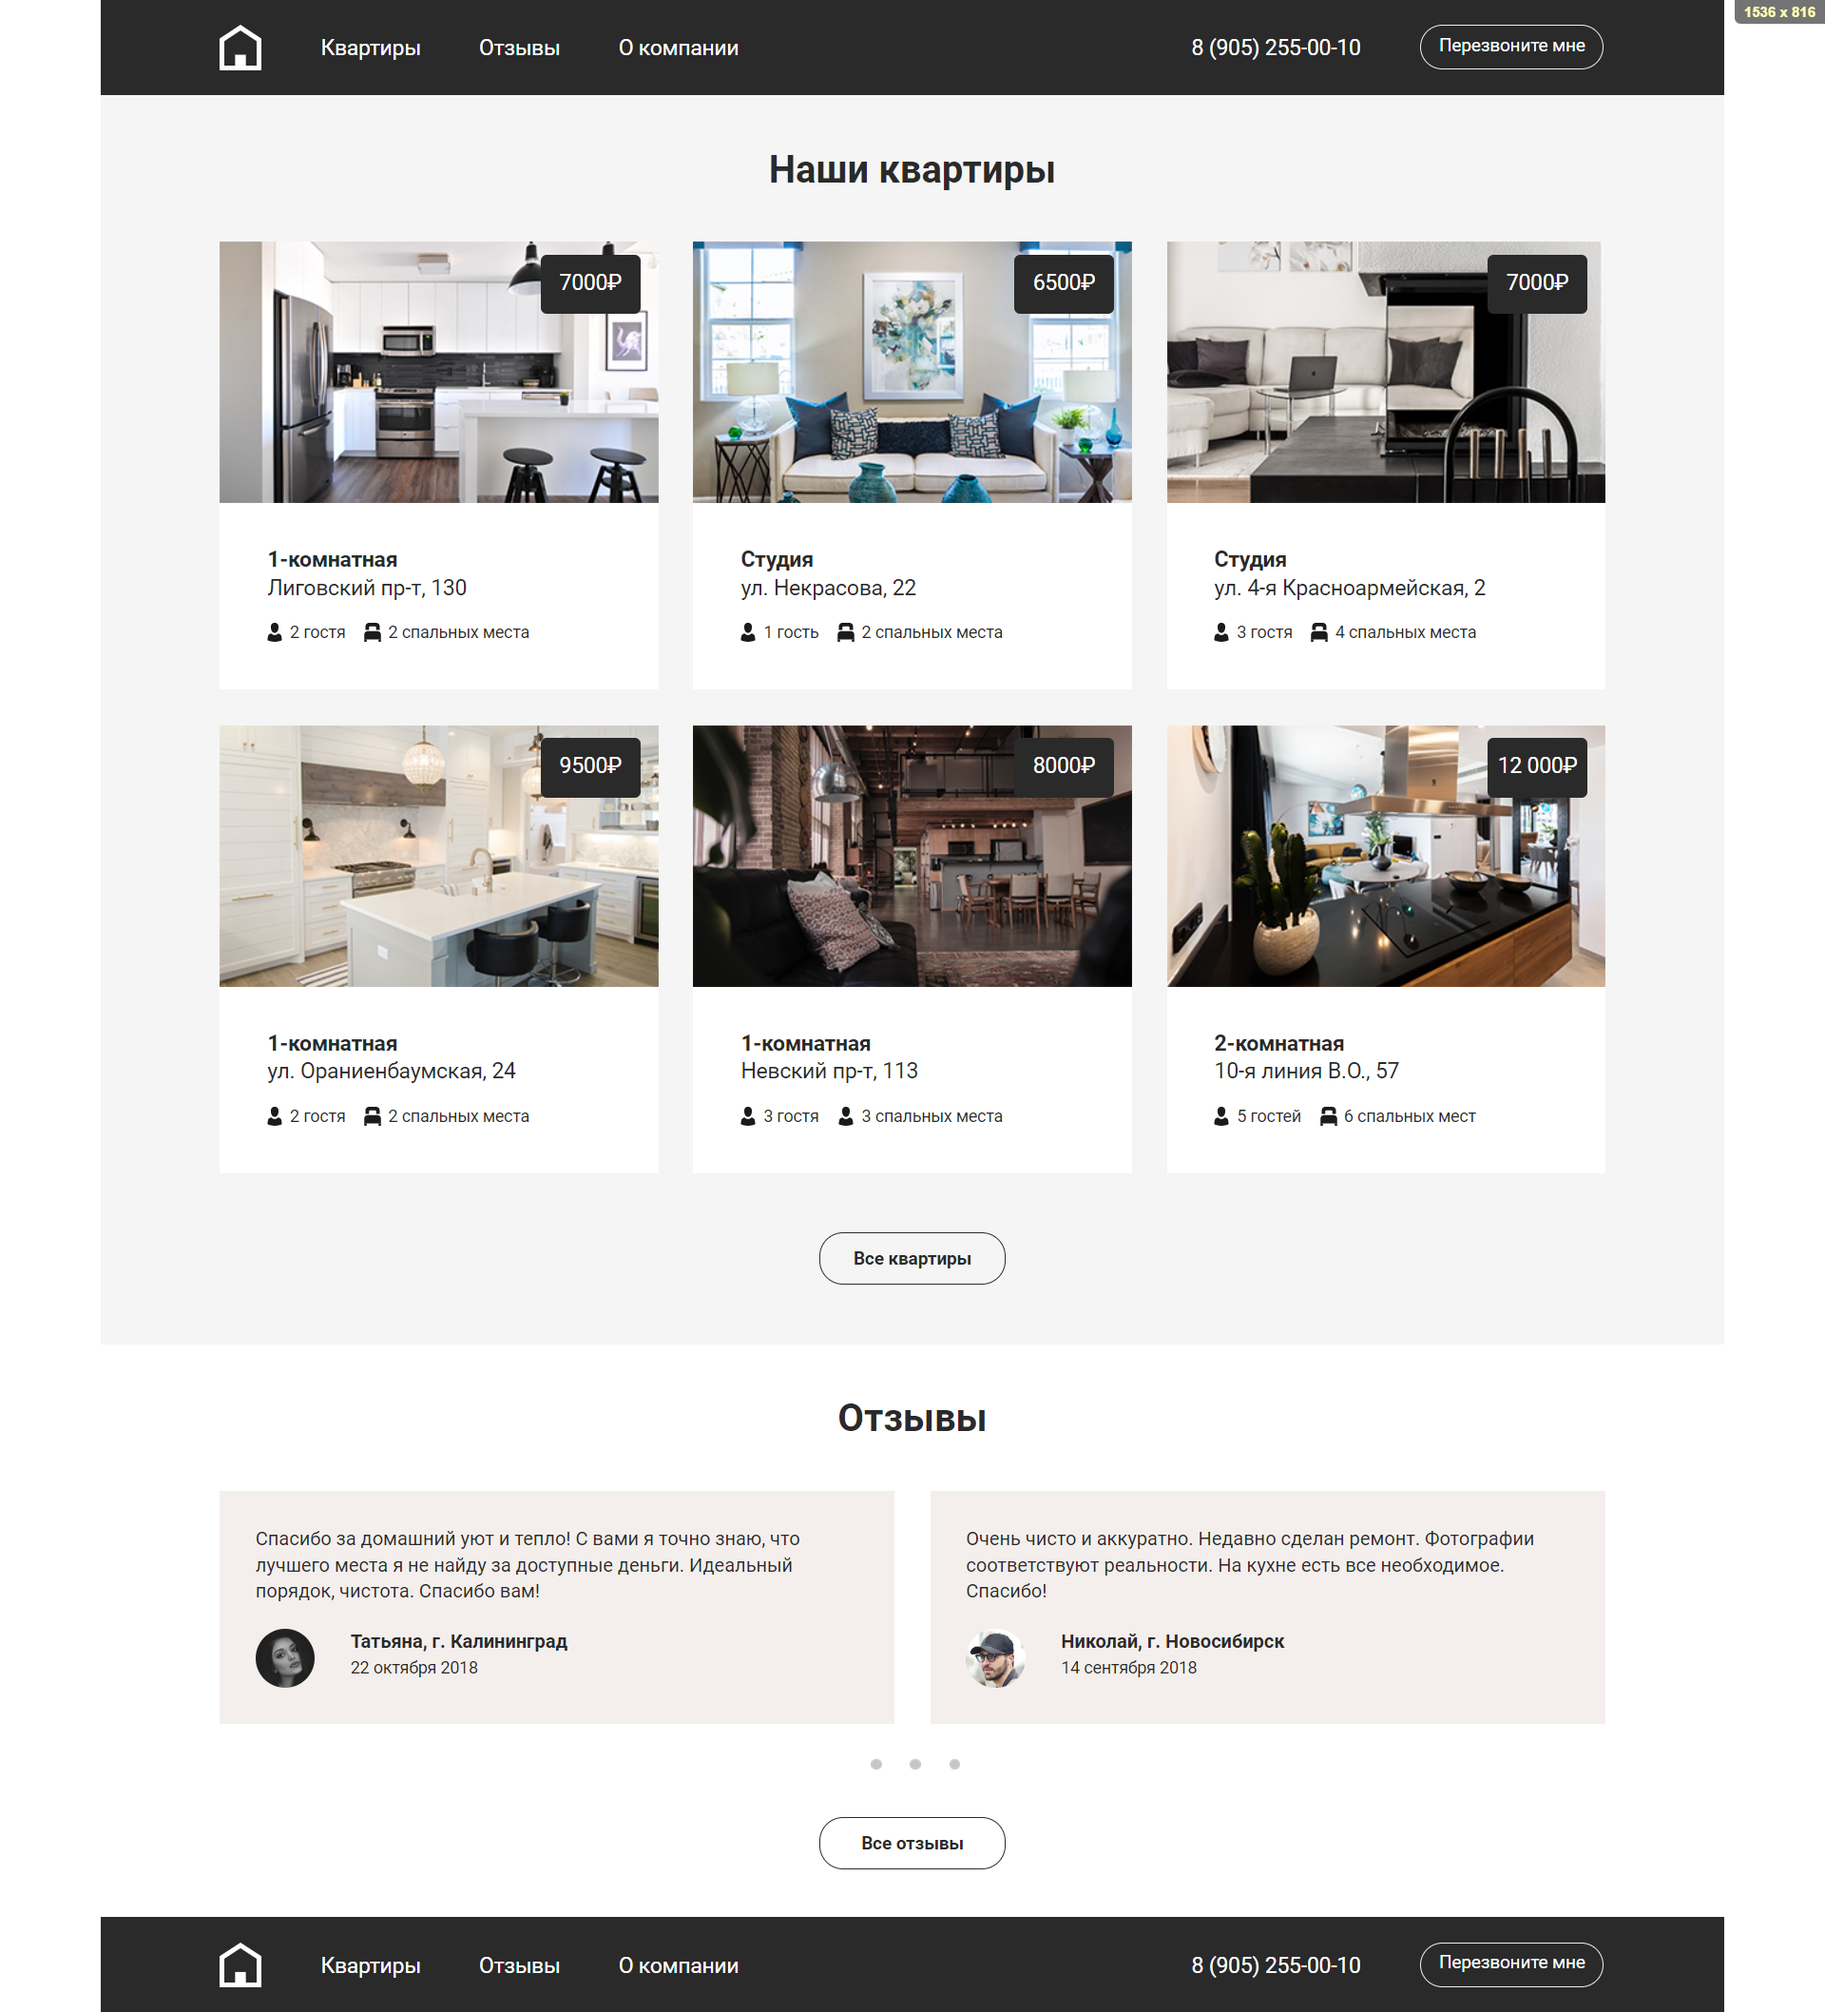
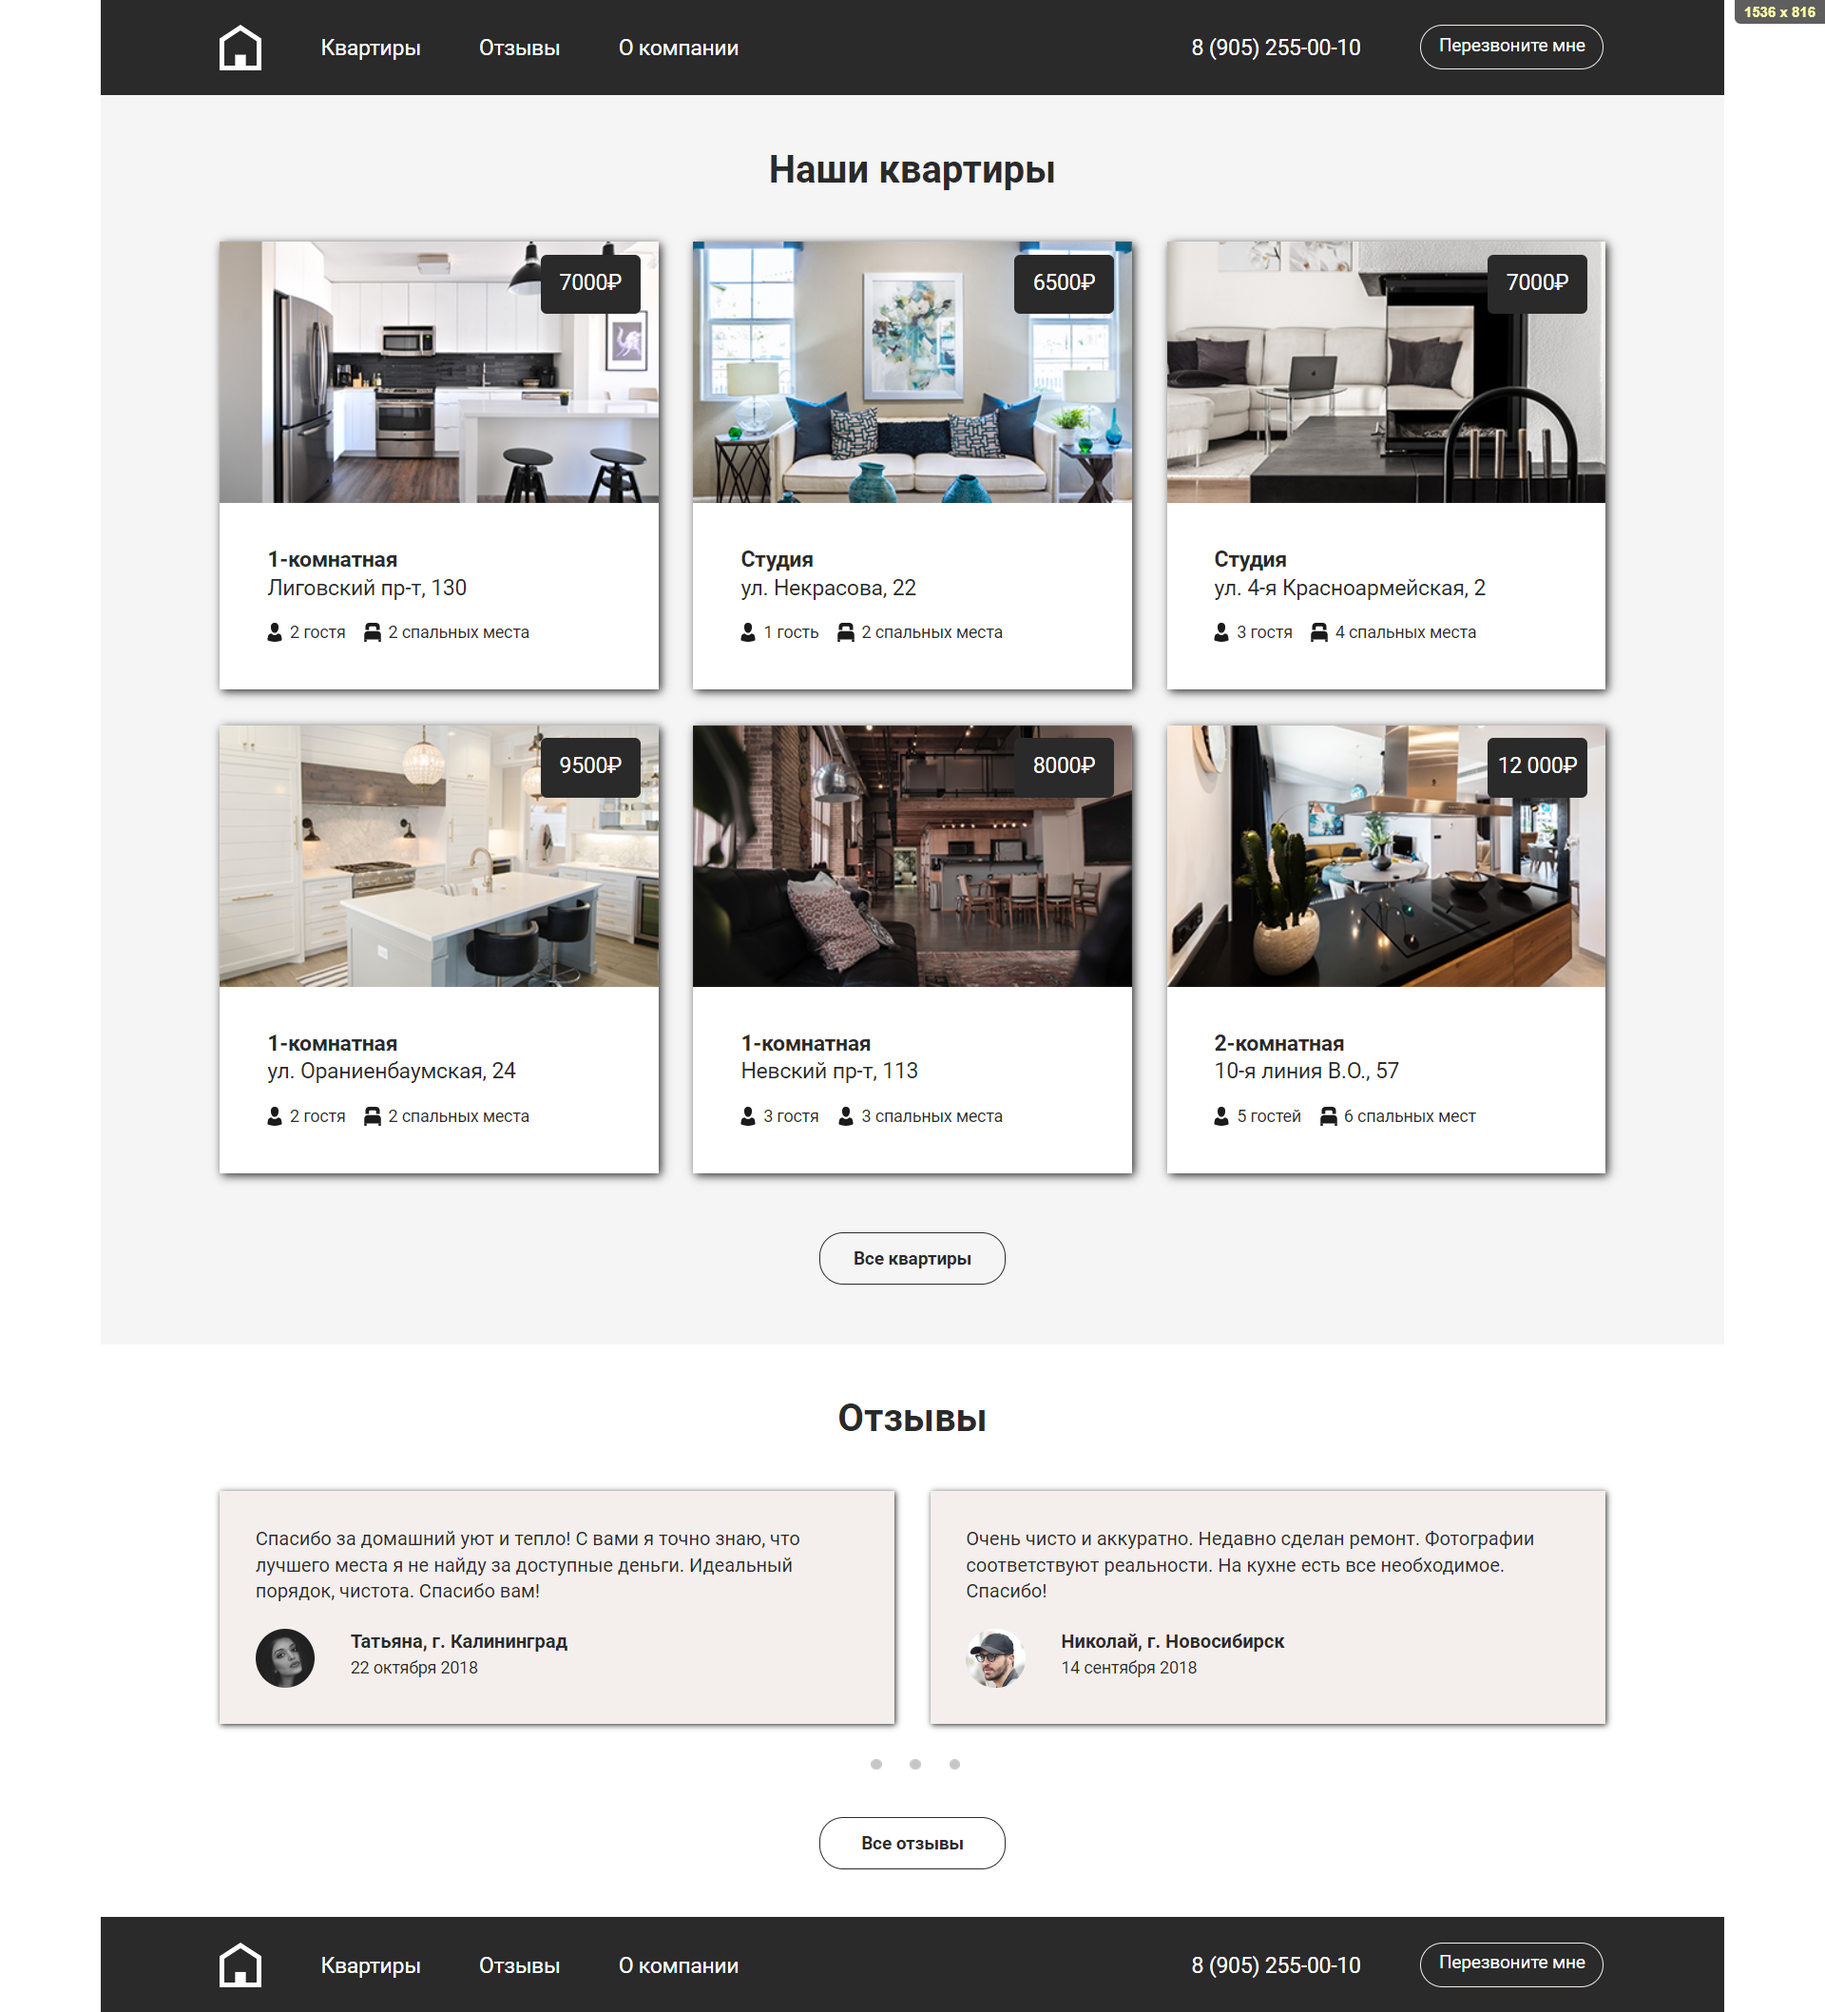
added box-shadow

diff --git a/CSS/index.css b/CSS/index.css
@@ -16,7 +16,7 @@ body{
 .button p,.caption,.person,b{
     font-weight:700
 }
-.content{
+.content{ 
     margin:0 auto;
     height:1131px;
     width:1366px;
@@ -78,12 +78,17 @@ body{
     height:785px
 }
 .flats li{
+    box-shadow: 2px 2px 8px;
     width:369px;
     height:377px;
     margin-bottom:30px;
     background-color:#fff;
     margin-left:29.5px;
     float:left}
+    .flats li:hover{
+        box-shadow: 4px 4px 12px ;
+
+    }
 .coments ul li:first-child,.flats li:nth-child(3n+1){
     margin-left:0
 }
@@ -109,7 +114,13 @@ body{
 .data,.person{margin-left:80px}
 .button p{margin:0 auto;font-size:15px;padding:10px;width:135px;border:1px solid #2a2a2a;border-radius:20px}
 .coments{margin-top:90px}
-.coments ul li{line-height:22px;margin-left:30px;padding:30px;background-color:#f4efed;width:508px;float:left}
+.coments ul li{
+    box-shadow: 1px 1px 5px;
+    line-height:22px;
+    margin-left:30px;
+    padding:30px;
+    background-color:#f4efed;
+    width:508px;float:left}
 .coments ul li img{width:50px;height:50px;border-radius:50px;margin-top:20px;float:left}
 .person{margin-top:20px}
 .punkts img{margin:0 20px 0 0}
